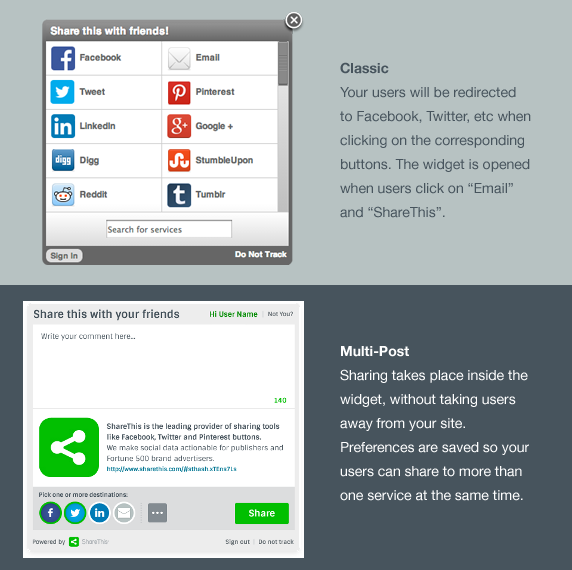
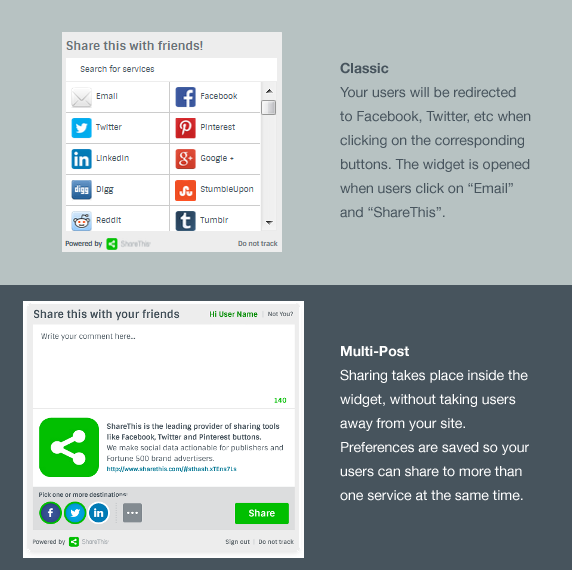
AW-3072 update sharethis module

Changed region(s): [[0.0594, 0.0, 0.535, 0.4772], [0.1486, 0.8649, 0.2972, 0.9246]]

diff --git a/sites/all/modules/contrib/sharethis/stlib_picker.js b/sites/all/modules/contrib/sharethis/stlib_picker.js
@@ -5,7 +5,7 @@
 //To get selected services as an array of strings:  (ie ["twitter", "sharethis", "facebook"] )
 //   Call: var answer = stlib_picker.pickerList[uniqueID]["getServices"]();
 
-var stlib_picker = {};
+var stlib_picker = {}, isSecure=("https:" == document.location.protocol)?true:false;
 stlib_picker.pickerList = [];
 stlib_picker.defaultServices = ["sharethis", "tumblr", "bebo"];
 stlib_picker.getServices = function (id) {
@@ -32,10 +32,10 @@ stlib_picker.setupPicker = function(jQElement, newDefaults, callback) {
 	
 	//Append the three divs that are needed:
 	jQElement.append("<div class='stp_pickerLeft'><span class='stp_header'>Selected Service</span><ul class='stp_ulLeft'></ul></div>");
-	jQElement.append("<div class='stp_pickerArrow'><div class='stp_arrow'><img class='stp_up' src='http://www.sharethis.com/images/Direction_Icons_Sprite.png'></img></div>" +
-												  "<div class='stp_arrow'><img class='stp_left' src='http://www.sharethis.com/images/Direction_Icons_Sprite.png'></img></div>" +
-												  "<div class='stp_arrow'><img class='stp_right' src='http://www.sharethis.com/images/Direction_Icons_Sprite.png'></img></div>" +
-												  "<div class='stp_arrow'><img class='stp_down' src='http://www.sharethis.com/images/Direction_Icons_Sprite.png'></img></div>" +
+	jQElement.append("<div class='stp_pickerArrow'><div class='stp_arrow'><img class='stp_up' src='//www.sharethis.com/images/Direction_Icons_Sprite.png'></img></div>" +
+												  "<div class='stp_arrow'><img class='stp_left' src='//www.sharethis.com/images/Direction_Icons_Sprite.png'></img></div>" +
+												  "<div class='stp_arrow'><img class='stp_right' src='//www.sharethis.com/images/Direction_Icons_Sprite.png'></img></div>" +
+												  "<div class='stp_arrow'><img class='stp_down' src='//www.sharethis.com/images/Direction_Icons_Sprite.png'></img></div>" +
 					"</div>");
 	jQElement.append("<div class='stp_pickerRight'><span class='stp_header'>Possible Services</span><ul class='stp_ulRight'></ul></div>");
 	jQElement.append("<div class='stp_clear'></div>");
@@ -52,12 +52,19 @@ stlib_picker.setupPicker = function(jQElement, newDefaults, callback) {
 	jQuery.each(_all_services, function(key, value) {
 		if(jQuery.inArray(key, pickerDefaults) == -1) {
 			var ul = jQElement.children(".stp_pickerRight").children(".stp_ulRight");
-			ul.append("<li id='st_li_" + key + "' class='stp_li'><img src='http://w.sharethis.com/images/"+key+"_32.png'></img><span class='stp_liText'>" + value.title + "</span></li>");
+			if(isSecure)
+				ul.append("<li id='st_li_" + key + "' class='stp_li'><img src='https://ws.sharethis.com/images/"+key+"_32.png'></img><span class='stp_liText'>" + value.title + "</span></li>");
+			else
+				ul.append("<li id='st_li_" + key + "' class='stp_li'><img src='http://w.sharethis.com/images/"+key+"_32.png'></img><span class='stp_liText'>" + value.title + "</span></li>");
+			
 		}
 	});
 	for(i=0;i<pickerDefaults.length;i++) {
 		var ul = jQElement.children(".stp_pickerLeft").children(".stp_ulLeft");
-		ul.append("<li id='st_li_" + pickerDefaults[i] + "' class='stp_li'><img src='http://w.sharethis.com/images/"+pickerDefaults[i]+"_32.png'></img><span class='stp_liText'>" + _all_services[pickerDefaults[i]].title + "</span></li>");
+		if(isSecure)
+			ul.append("<li id='st_li_" + pickerDefaults[i] + "' class='stp_li'><img src='https://ws.sharethis.com/images/"+pickerDefaults[i]+"_32.png'></img><span class='stp_liText'>" + _all_services[pickerDefaults[i]].title + "</span></li>");
+		else
+			ul.append("<li id='st_li_" + pickerDefaults[i] + "' class='stp_li'><img src='http://w.sharethis.com/images/"+pickerDefaults[i]+"_32.png'></img><span class='stp_liText'>" + _all_services[pickerDefaults[i]].title + "</span></li>");
 	}
 	
 	//Add the various Event handlers 
